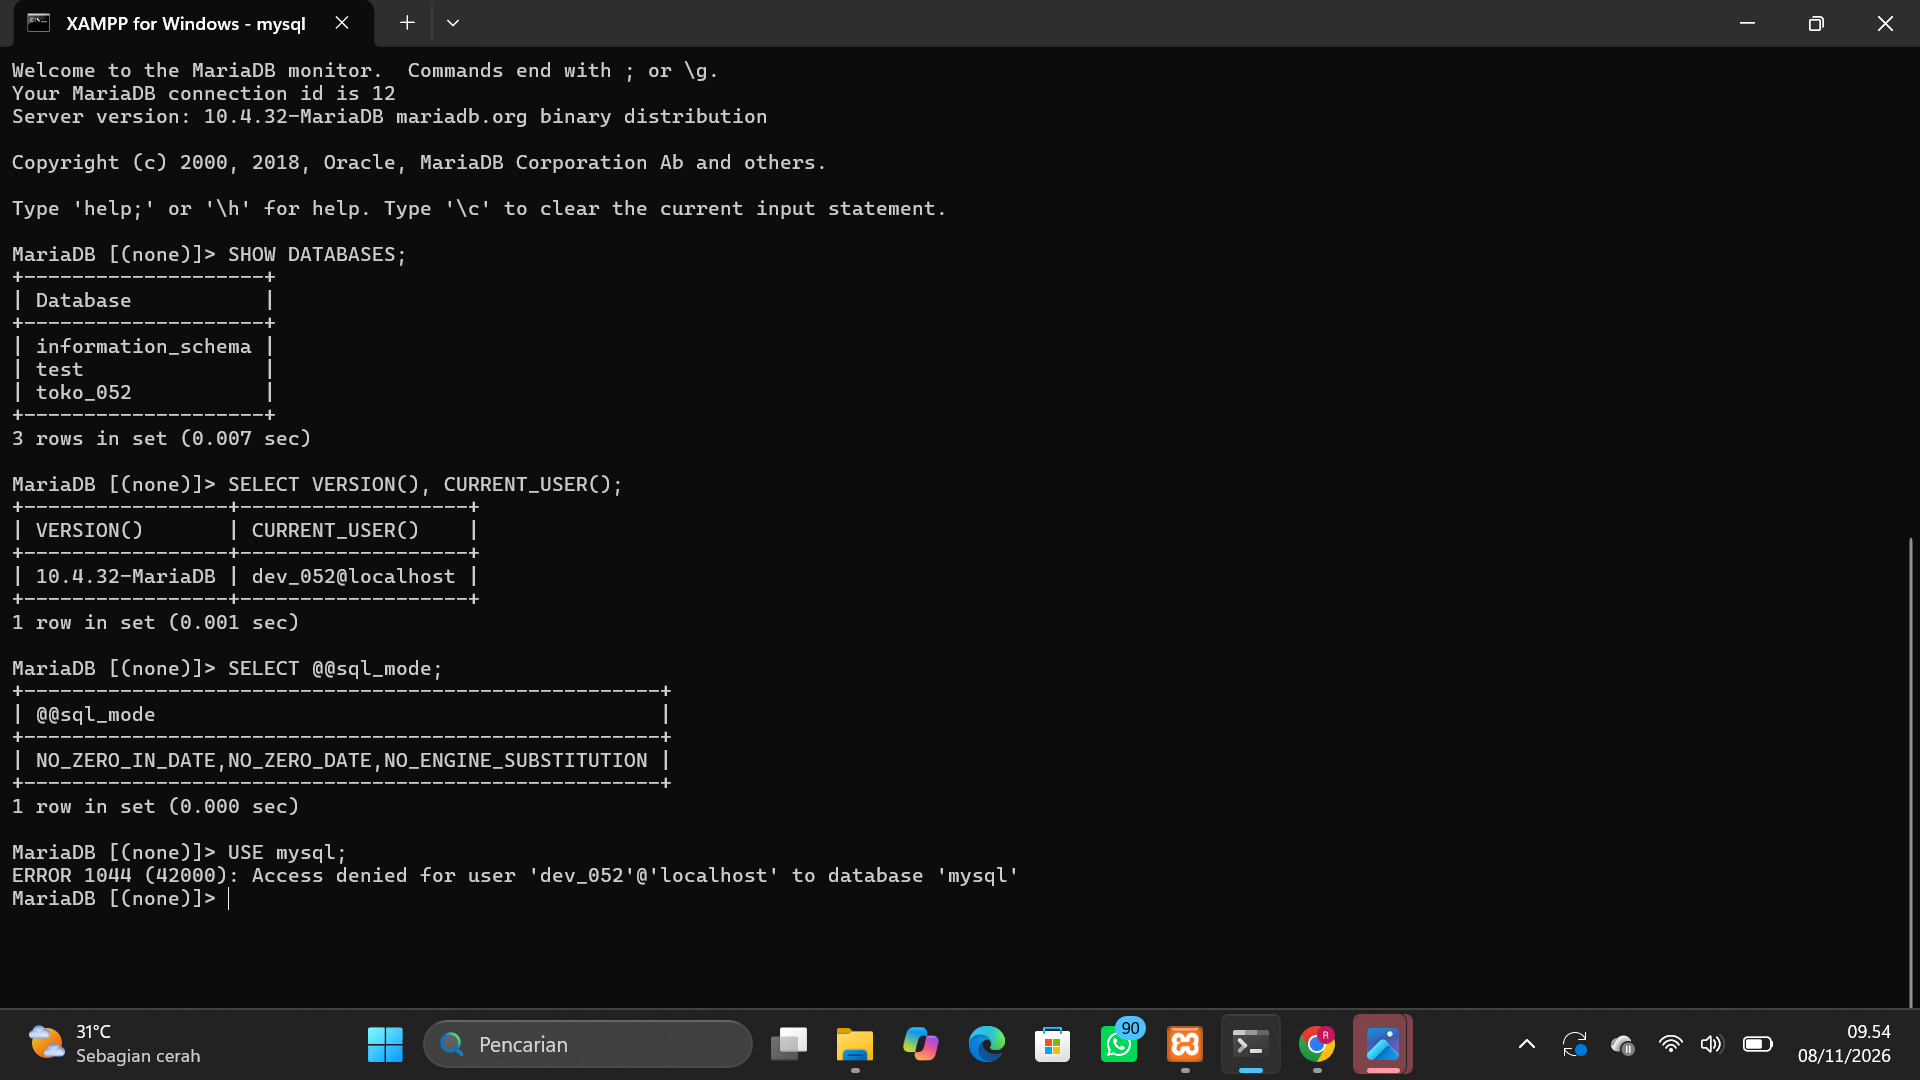
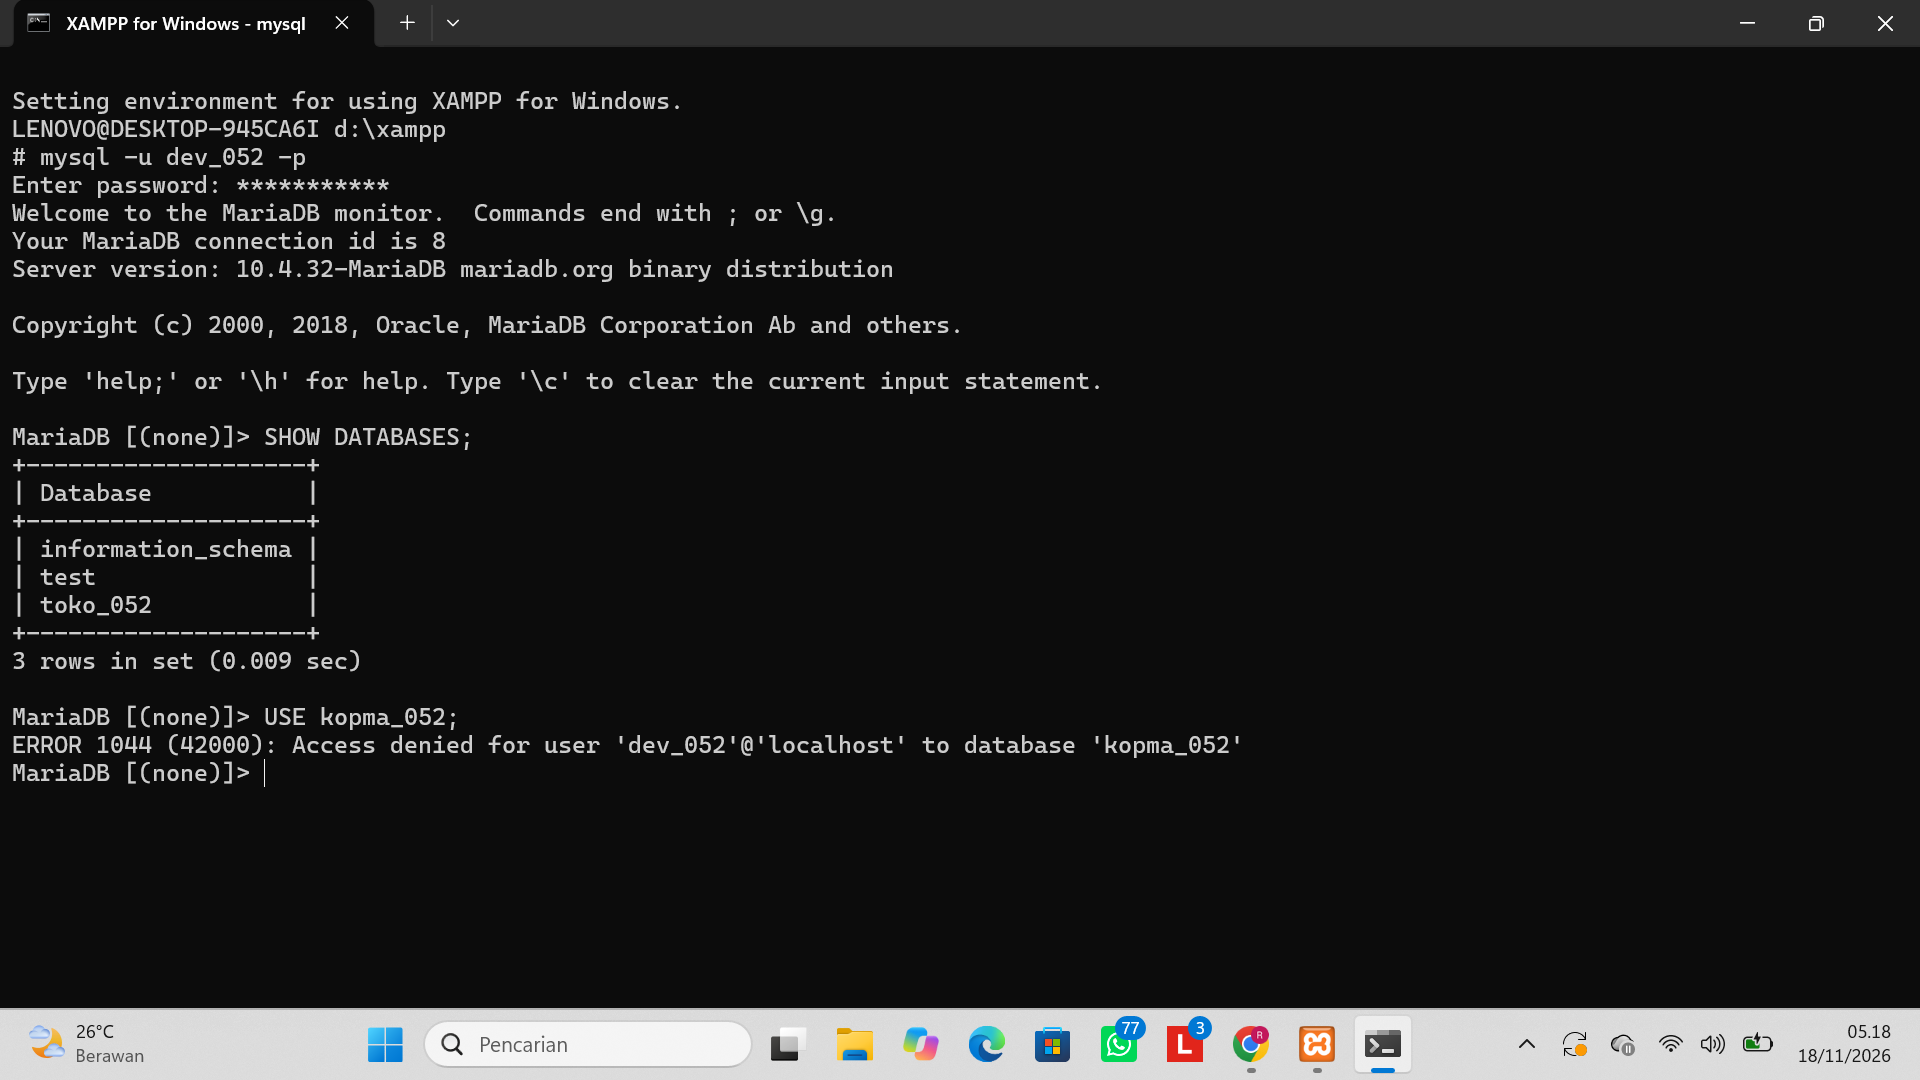
p01: perbarui bukti foto dan isi laporan sesuai modul

Changed region(s): [[0.0, 0.0611, 0.6562, 0.8556], [0.0, 0.9167, 1.0, 1.0]]

diff --git a/laporan/p01_laporan_052.md b/laporan/p01_laporan_052.md
@@ -8,13 +8,13 @@ Praktikum ini bertujuan agar mahasiswa mampu mengelola layanan MariaDB di XAMPP,
 Basis data membutuhkan Sistem Manajemen Basis Data (DBMS) seperti MariaDB untuk mengelola penyimpanan, keamanan, dan transaksi. MariaDB menggunakan arsitektur klien-server di mana server berjalan di *background* (port 3306) dan klien (seperti CLI atau phpMyAdmin) mengirimkan kueri SQL kepadanya. Untuk keamanan, diterapkan prinsip hak akses minimum di mana akun kerja hanya bisa mengakses basis datanya sendiri. Semua progres dicatat dalam sistem *version control* Git.
 
 ## 3. Hasil Langkah Percobaan
-**Bukti Versi MariaDB, Akun, dan SQL Mode:**
+**Bukti Versi MariaDB, Akun Praktikum, dan SQL Mode:**
 ![Bukti Versi dan User](img/p01_versi_user_052.png)
-*Keterangan: Berhasil login sebagai dev_052 dan mode SQL ketat (STRICT_TRANS_TABLES) telah aktif.*
+*Keterangan: Berhasil login sebagai mhs_052@localhost pada MariaDB 10.4.32 dan menampilkan konfigurasi sql_mode aktif.*
 
-**Bukti Database Proyek:**
+**Bukti Database Praktikum:**
 ![Bukti Database](img/p01_show_db_052.png)
-*Keterangan: Akun dev_052 hanya dapat melihat information_schema, test, dan toko_052 miliknya.*
+*Keterangan: Akun mhs_052 hanya dapat melihat information_schema, kopma_052, dan test miliknya.*
 
 **Bukti Halaman phpMyAdmin (Mode Cookie):**
 ![Bukti phpMyAdmin](img/p01_phpmyadmin_052.png)
@@ -23,7 +23,7 @@ Basis data membutuhkan Sistem Manajemen Basis Data (DBMS) seperti MariaDB untuk 
 ## 4. Jawaban Titik Analisis
 **Titik Analisis 1:** Walaupun tombol di XAMPP berlabel "MySQL", server yang sebenarnya berjalan adalah MariaDB. Konsekuensinya, jika mencari solusi error di internet, kita harus merujuk pada dokumentasi MariaDB, terutama untuk fitur baru, karena ada perbedaan penanganan fitur tertentu dibandingkan MySQL murni.
 **Titik Analisis 2:** Pesan galat 1045 menyebutkan `(using password: NO)`, yang artinya klien mencoba masuk tanpa mengirimkan password sama sekali (karena lupa menambahkan opsi `-p`).
-**Titik Analisis 3:** `information_schema` tetap terlihat karena itu adalah database sistem bawaan yang berisi informasi tabel (metadata) yang boleh dilihat semua user. Galat 1044 muncul saat mencoba masuk ke `mysql` karena akun `dev_052` tidak memiliki hak akses (privileges) ke sana. Beda dengan galat 1045 yang merupakan masalah otentikasi (salah password).
+**Titik Analisis 3:** `information_schema` tetap terlihat karena itu adalah database sistem bawaan yang berisi informasi tabel (metadata) yang boleh dilihat semua user. Galat 1044 muncul saat mencoba masuk ke `mysql` karena akun kerja (mhs_052 maupun dev_052) hanya memiliki hak akses pada database masing-masing dan ditolak saat mengakses database lain
 **Titik Analisis 4:** Mode `cookie` lebih aman karena pengguna diwajibkan mengetik password setiap kali login. Pada mode `config`, password disimpan dalam bentuk teks biasa di dalam file `config.inc.php`, yang sangat rentan jika file tersebut bocor atau diakses orang lain di komputer yang sama.
 
 ## 5. Hasil Latihan dan Modifikasi
@@ -32,7 +32,12 @@ Basis data membutuhkan Sistem Manajemen Basis Data (DBMS) seperti MariaDB untuk 
 *Keterangan: Pembuatan tabel ditolak karena akun tamu_052 hanya diberikan hak akses SELECT, bukan CREATE.*
 
 ## 6. Tugas Mandiri: Milestone Proyek 1
-Telah dibuat repositori GitHub untuk proyek "Toko Pakaian RK Clothing" yang berisi file `README.md`, skrip SQL `p01_lingkungan_052.sql`, dan file `.gitignore`. Database `toko_052` dan akun `dev_052` telah berhasil dibuat dan dibuktikan pada tangkapan layar di bagian 3.
+Telah dibuat repositori GitHub untuk proyek "Toko Pakaian RK Clothing" yang berisi file `README.md`, skrip SQL `p01_lingkungan_052.sql`, dan file `.gitignore`. Database `toko_052` dan akun `dev_052` telah berhasil dibuat serta terisolasi dari database praktikum `kopma_052` (menghasilkan galat 1044 saat diakses).
+
+**Bukti Database Proyek dan Isolasi Akun (Galat 1044):**
+![Bukti Database Proyek dan Galat 1044](img/p01_galat_1044_052.png)
+*Keterangan: Akun dev_052 hanya dapat mengakses toko_052 dan ditolak (ERROR 1044) saat mencoba mengakses kopma_052.*
+Selain itu, dilakukan penyesuaian pemisahan akun mhs_052 (kopma_052) dan dev_052 (toko_052) agar sesuai dengan aturan hak akses minimum pada modul.
 
 ## 7. Pembahasan dan Kendala
 Kendala utama yang dihadapi adalah sempat tertukar antara menjalankan perintah bash (Windows) dengan kueri MariaDB, sehingga muncul perintah yang "menggantung" (tanda `->`). Solusinya adalah dengan mengetik `\c` untuk membatalkan kueri dan `exit` untuk kembali ke Command Prompt Windows. Selain itu, terdapat pesan galat 1045 karena salah memasukkan password, yang diselesaikan dengan masuk kembali menggunakan opsi `-p` dan mengetik password dengan benar.
